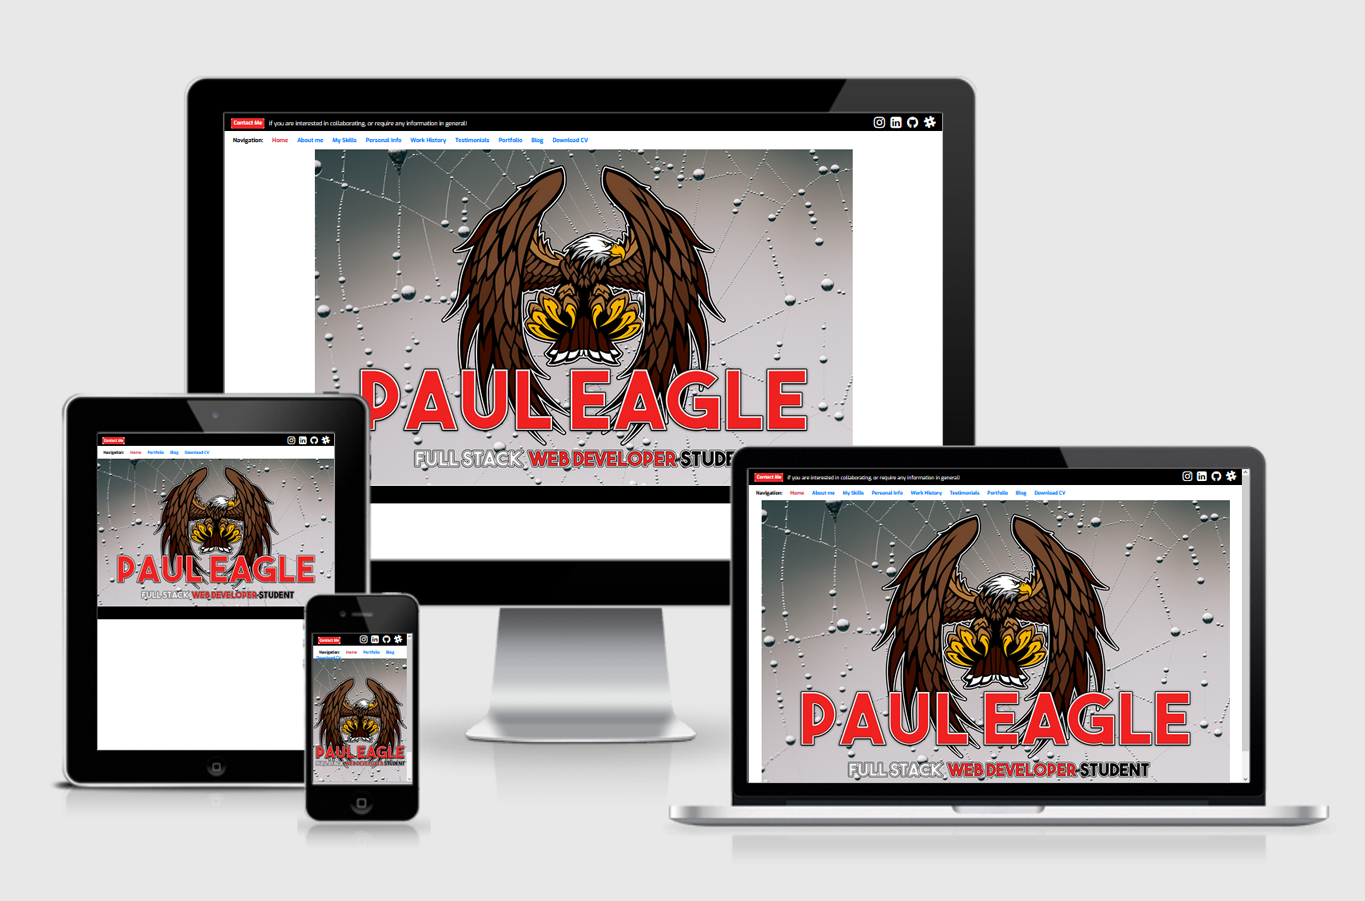
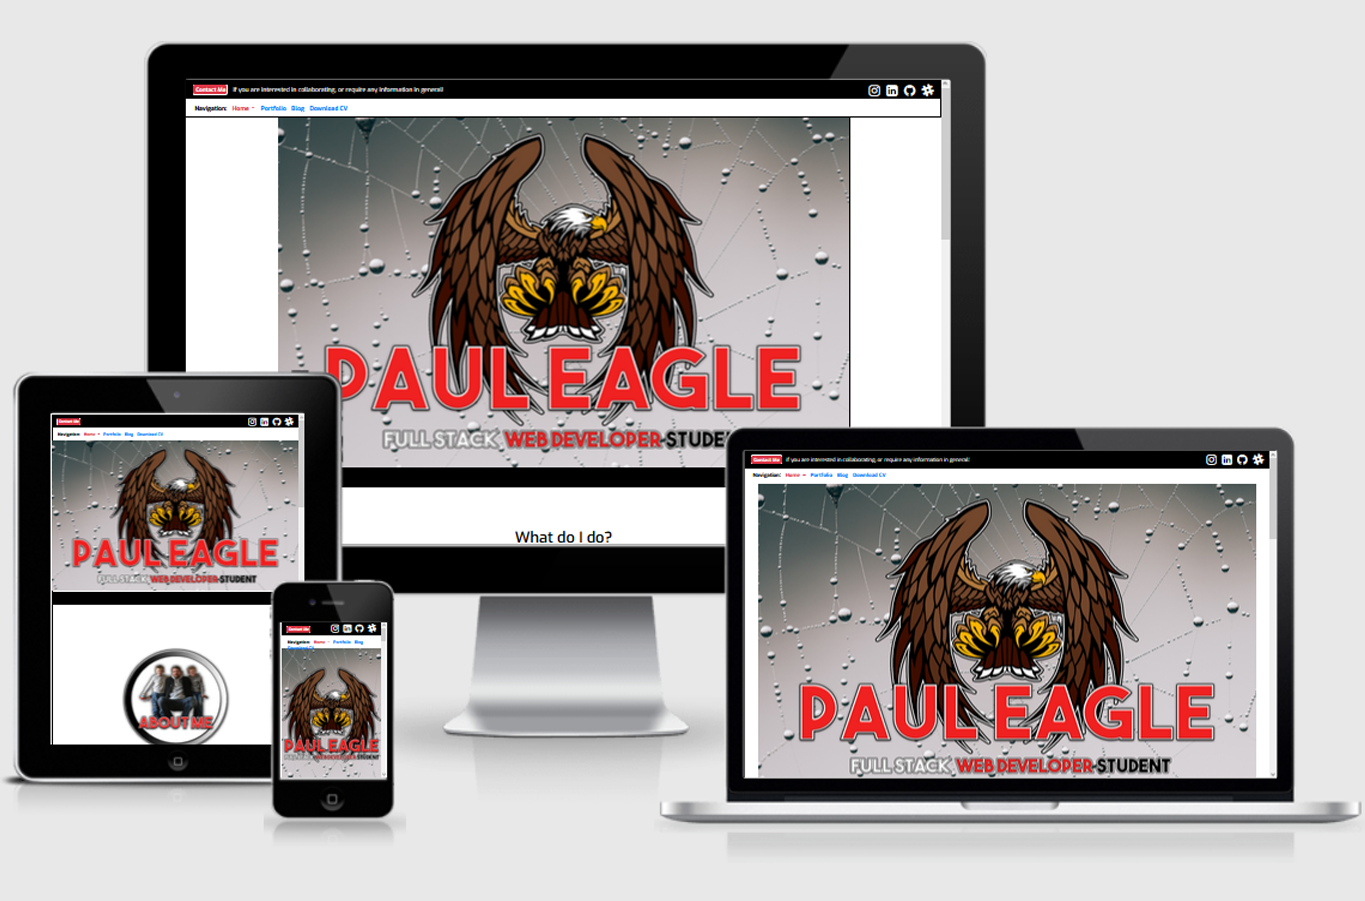
fix: about-me md layout issue

diff --git a/index.html b/index.html
@@ -86,10 +86,10 @@
 
             <!-- Hero Image -->
             <div class="row">
-                <div class="hero-image d-none d-sm-block">
+                <div class="hero-image d-none d-md-block">
                     <img class="img-fluid" src="assets/images/hero-image.png" alt="Hero Image">
                 </div>
-                <div class="hero-image d-block d-sm-none">
+                <div class="hero-image d-block d-md-none">
                     <img class="img-fluid" src="assets/images/hero-image-sm.png" alt="Hero Image">
                 </div>
             </div>
@@ -115,7 +115,7 @@
             <div class="d-none d-sm-inline d-md-none col-12 col-md-6 col-lg-4 pt-4">
                 <img class="img-fluid about-me-tablet-image" src="assets/images/about-me.png" alt="About Me">
             </div>
-            <div class="d-none d-md-inline d-lg-none col-12 col-md-6 col-lg-4 pt-4">
+            <div class="d-none d-md-inline d-lg-none col-12 col-md-6 col-lg-4 pt-md-0">
                 <img class="img-fluid about-me-laptop-image" src="assets/images/about-me.png" alt="About Me">
             </div>
             <div class="d-none d-lg-inline col-12 about-me-text pt-lg-20">
